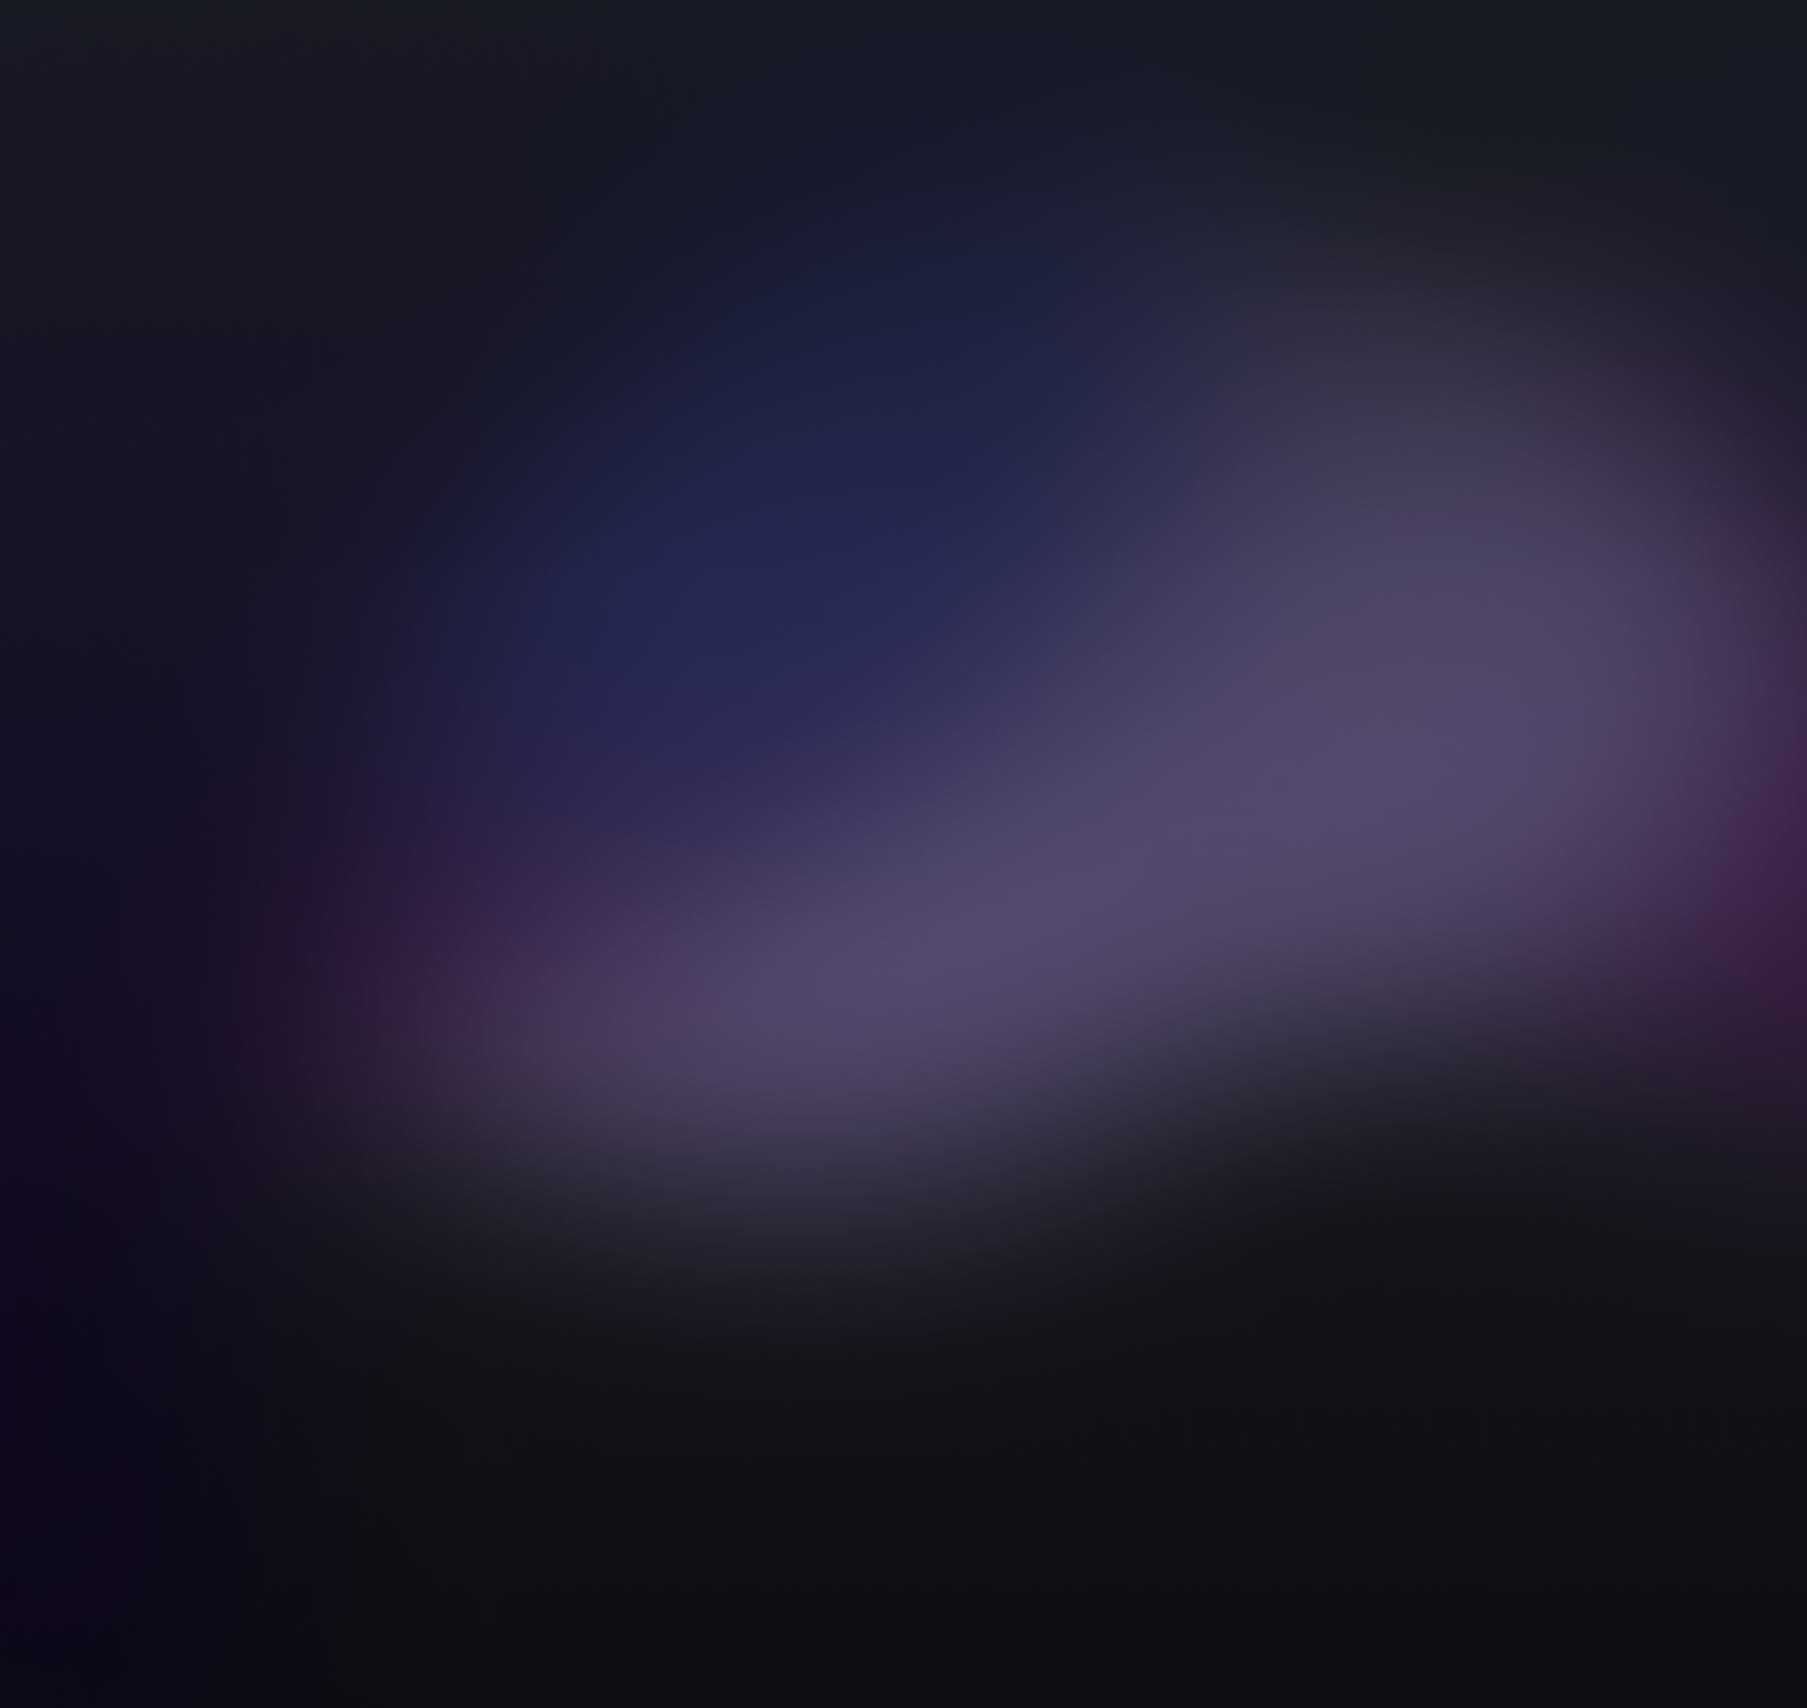
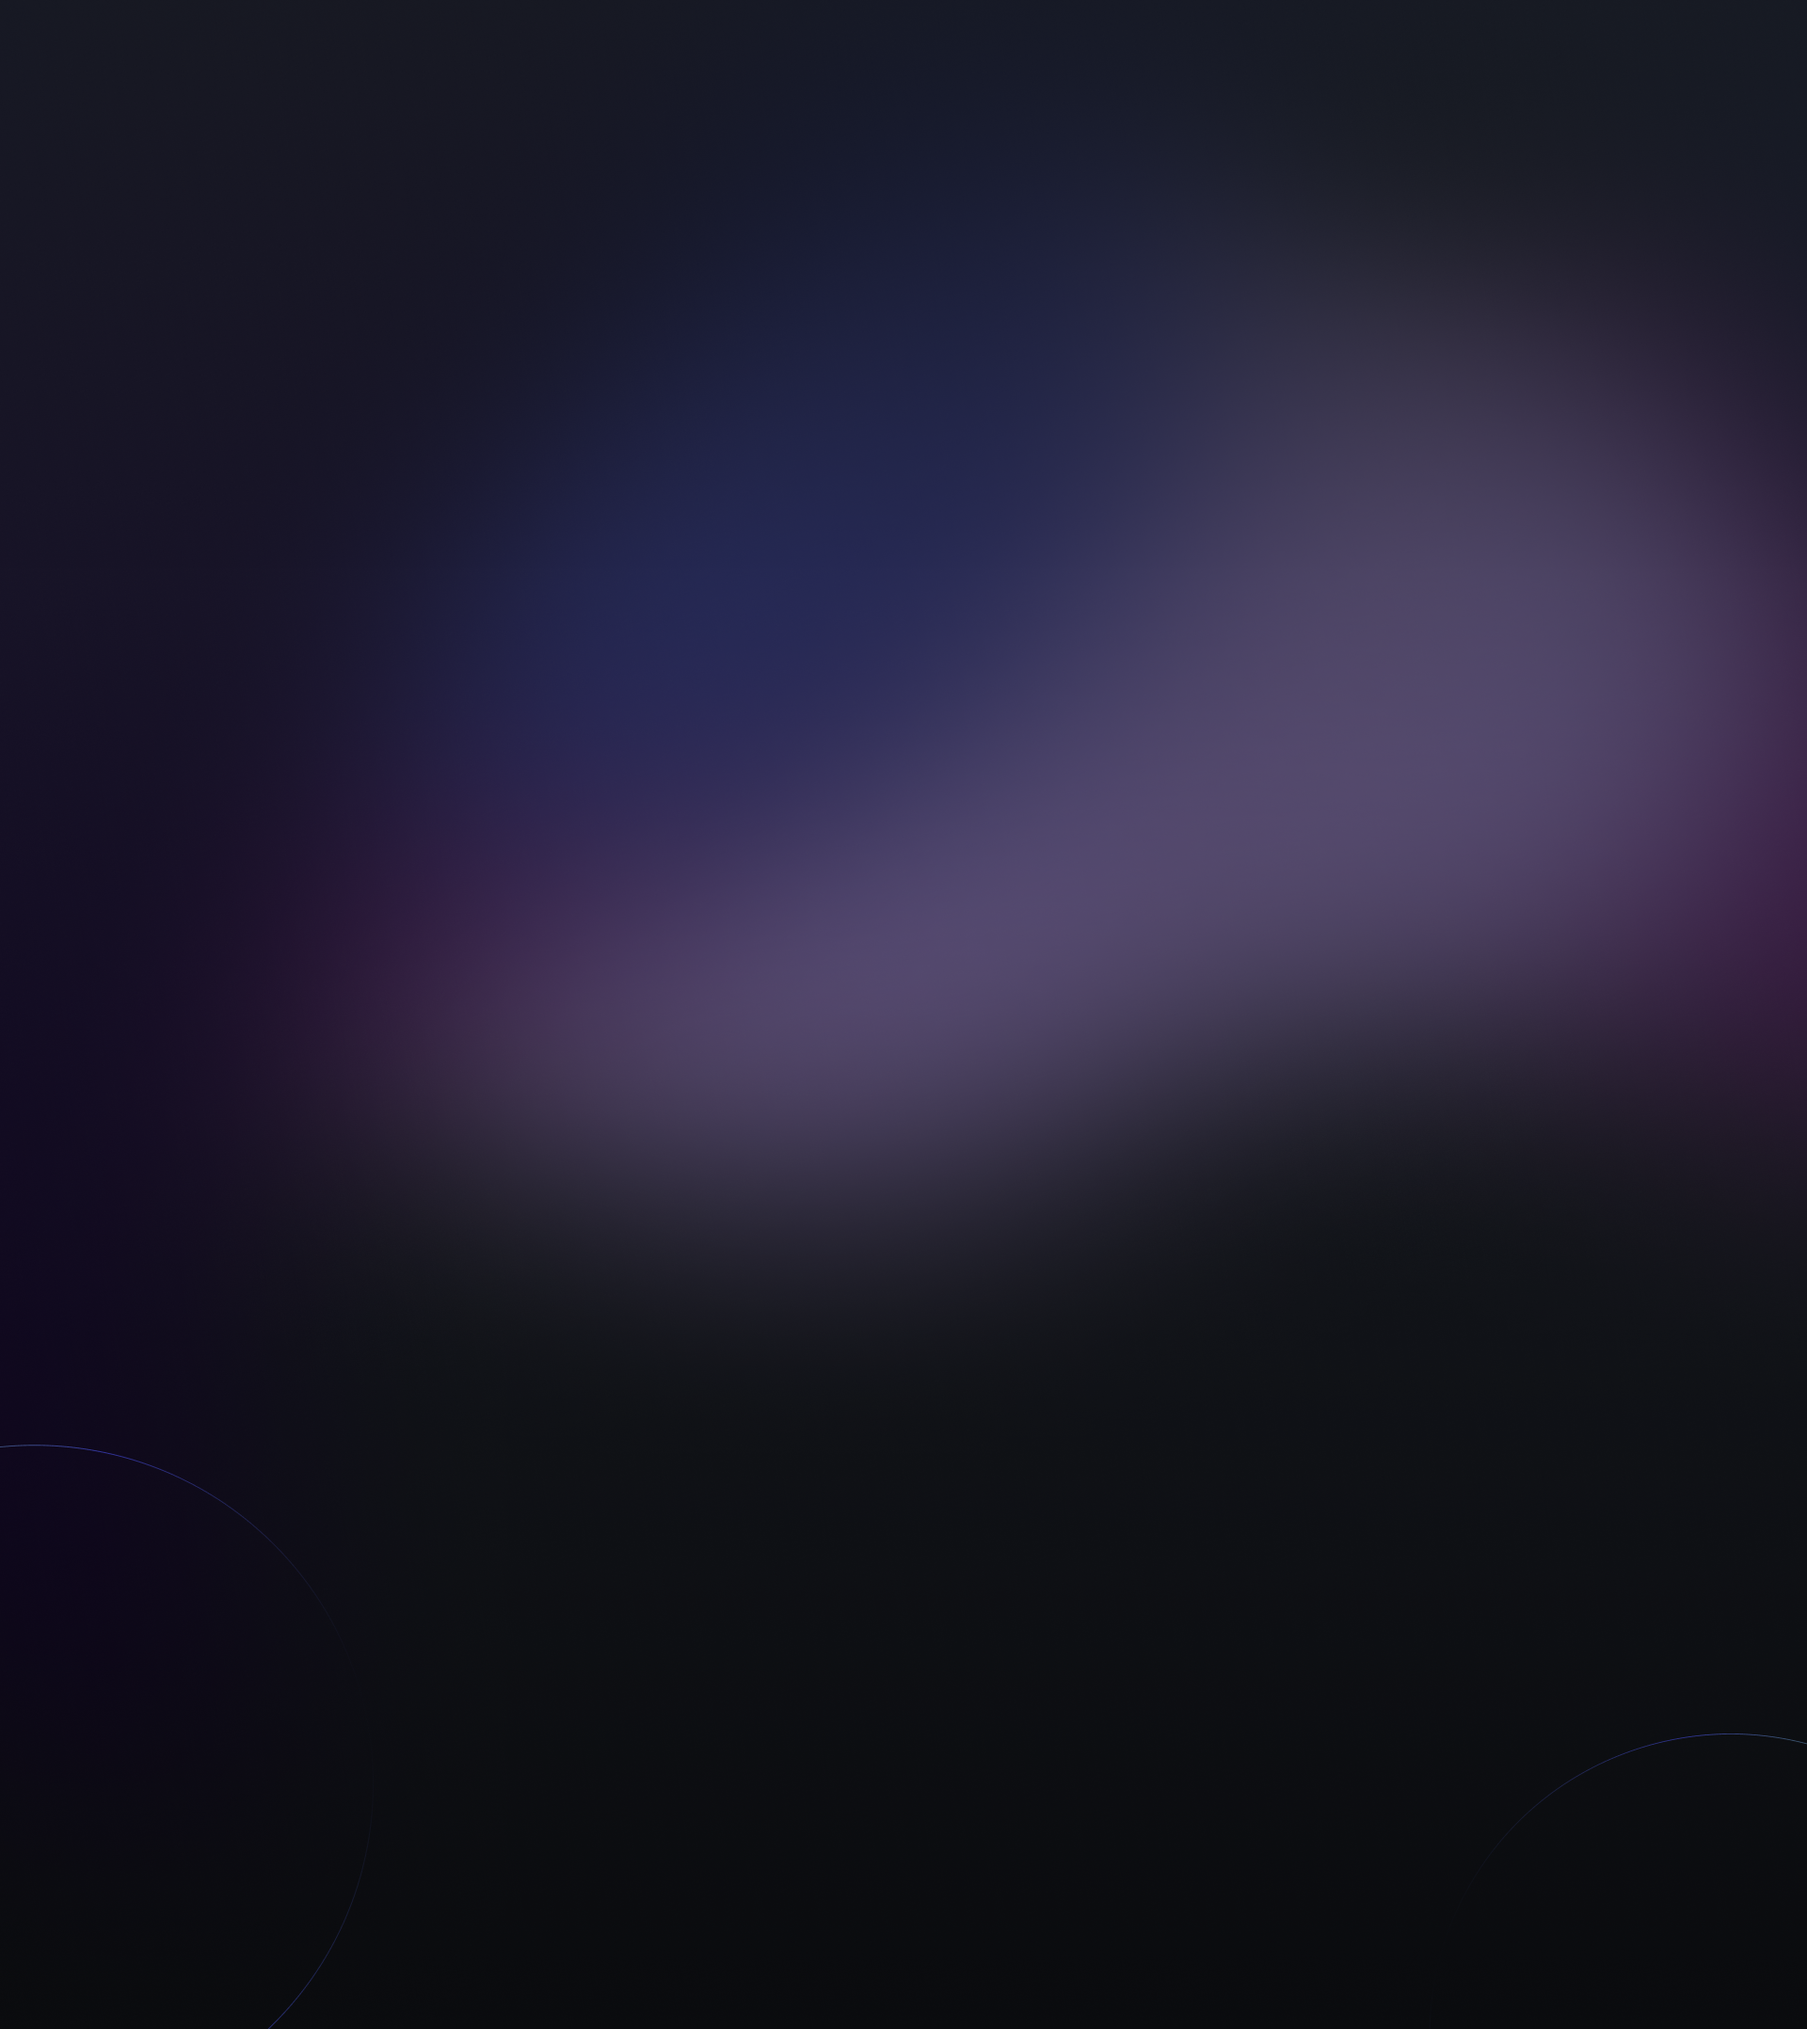
update gradient

Changed region(s): [[0.1875, 0.4628, 1.0, 0.7405]]

diff --git a/src/components/layout/GradientBG.tsx b/src/components/layout/GradientBG.tsx
@@ -21,23 +21,20 @@ const GradientBGSC = styled.div<{
       perspective: 'none',
     },
     '.bg, .bg::after': {
-      '--blur-amount': '0px',
       overflow: 'hidden',
       content: '""',
       position: 'absolute',
-      top: 'calc(var(--blur-amount) * -1.5)',
-      left: 'calc(var(--blur-amount) * -1.5)',
-      right: 'calc(var(--blur-amount) * -1.5)',
-      bottom: 'calc(var(--blur-amount) * -1.5)',
+      top: '0',
+      left: '0',
+      right: '0',
+      bottom: '0',
     },
     '.bg::after': {
-      '--blur-amount': '10px',
       backgroundImage: `url(${image})`,
       backgroundPosition: position,
       backgroundSize: $size,
       backgroundRepeat: 'no-repeat',
       backgroundColor: theme.colors['fill-zero'],
-      filter: 'blur(var(--blur-amount))',
     },
     '.content': {
       position: 'relative',
